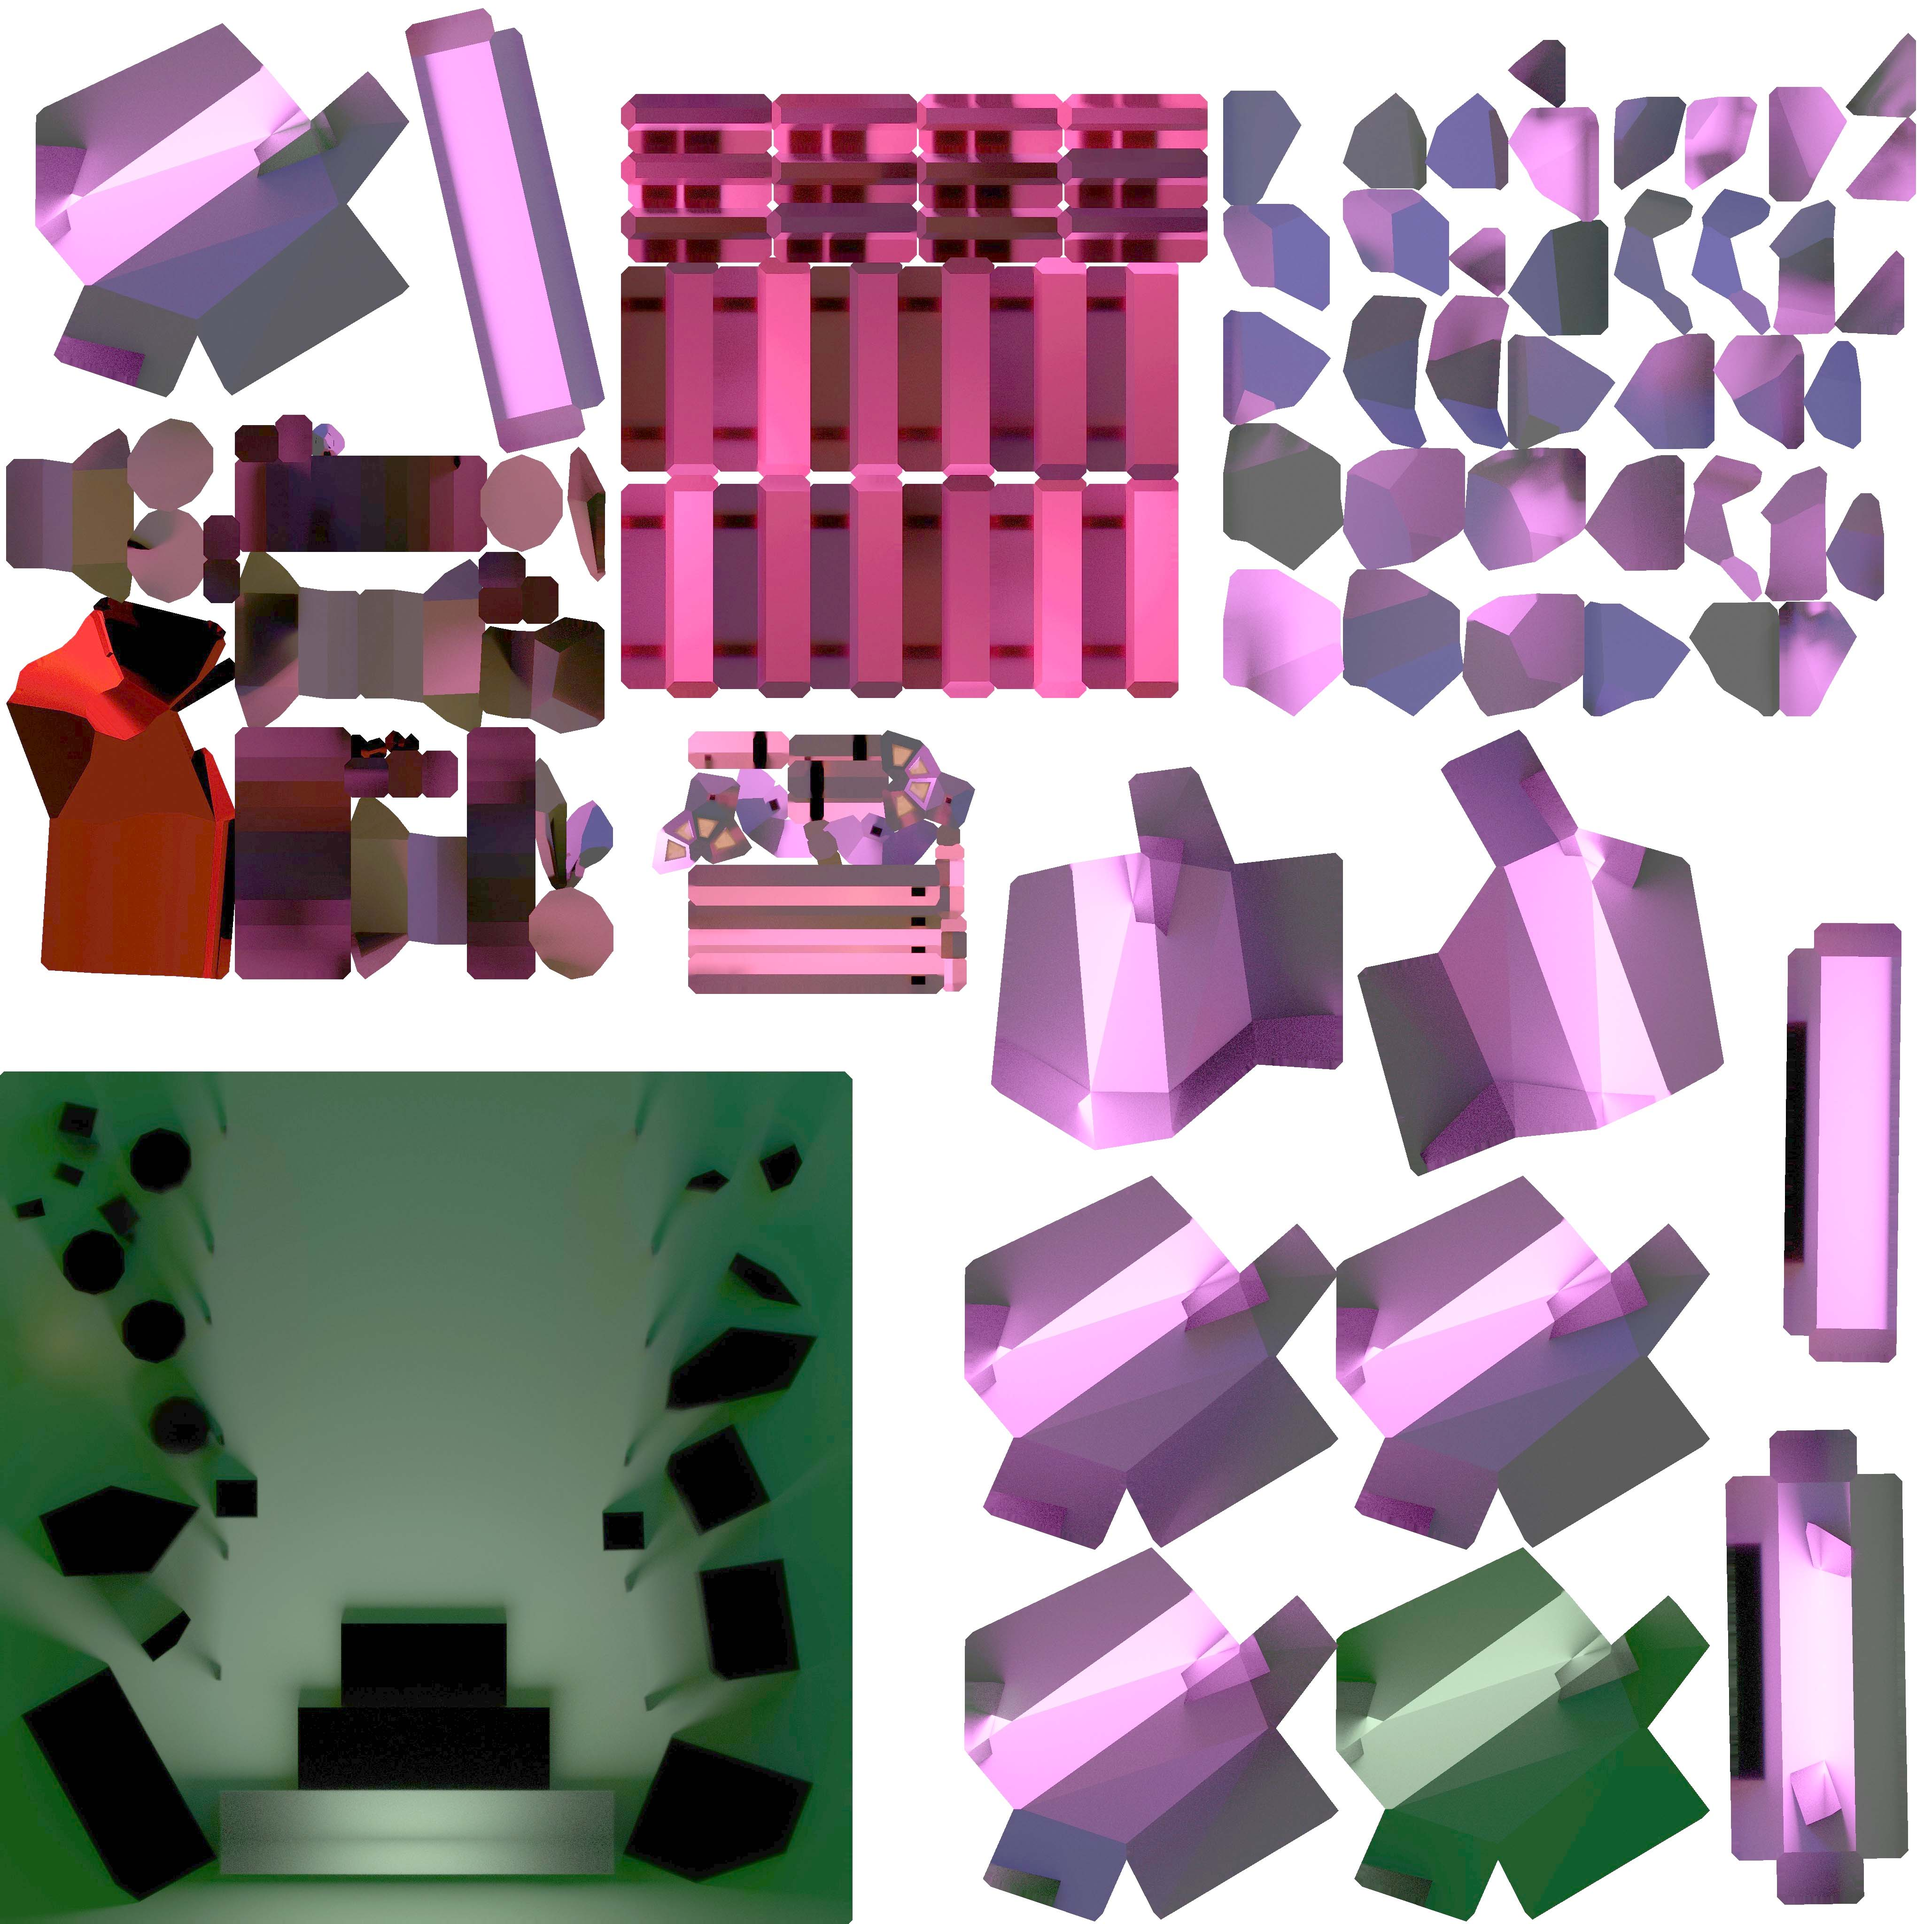
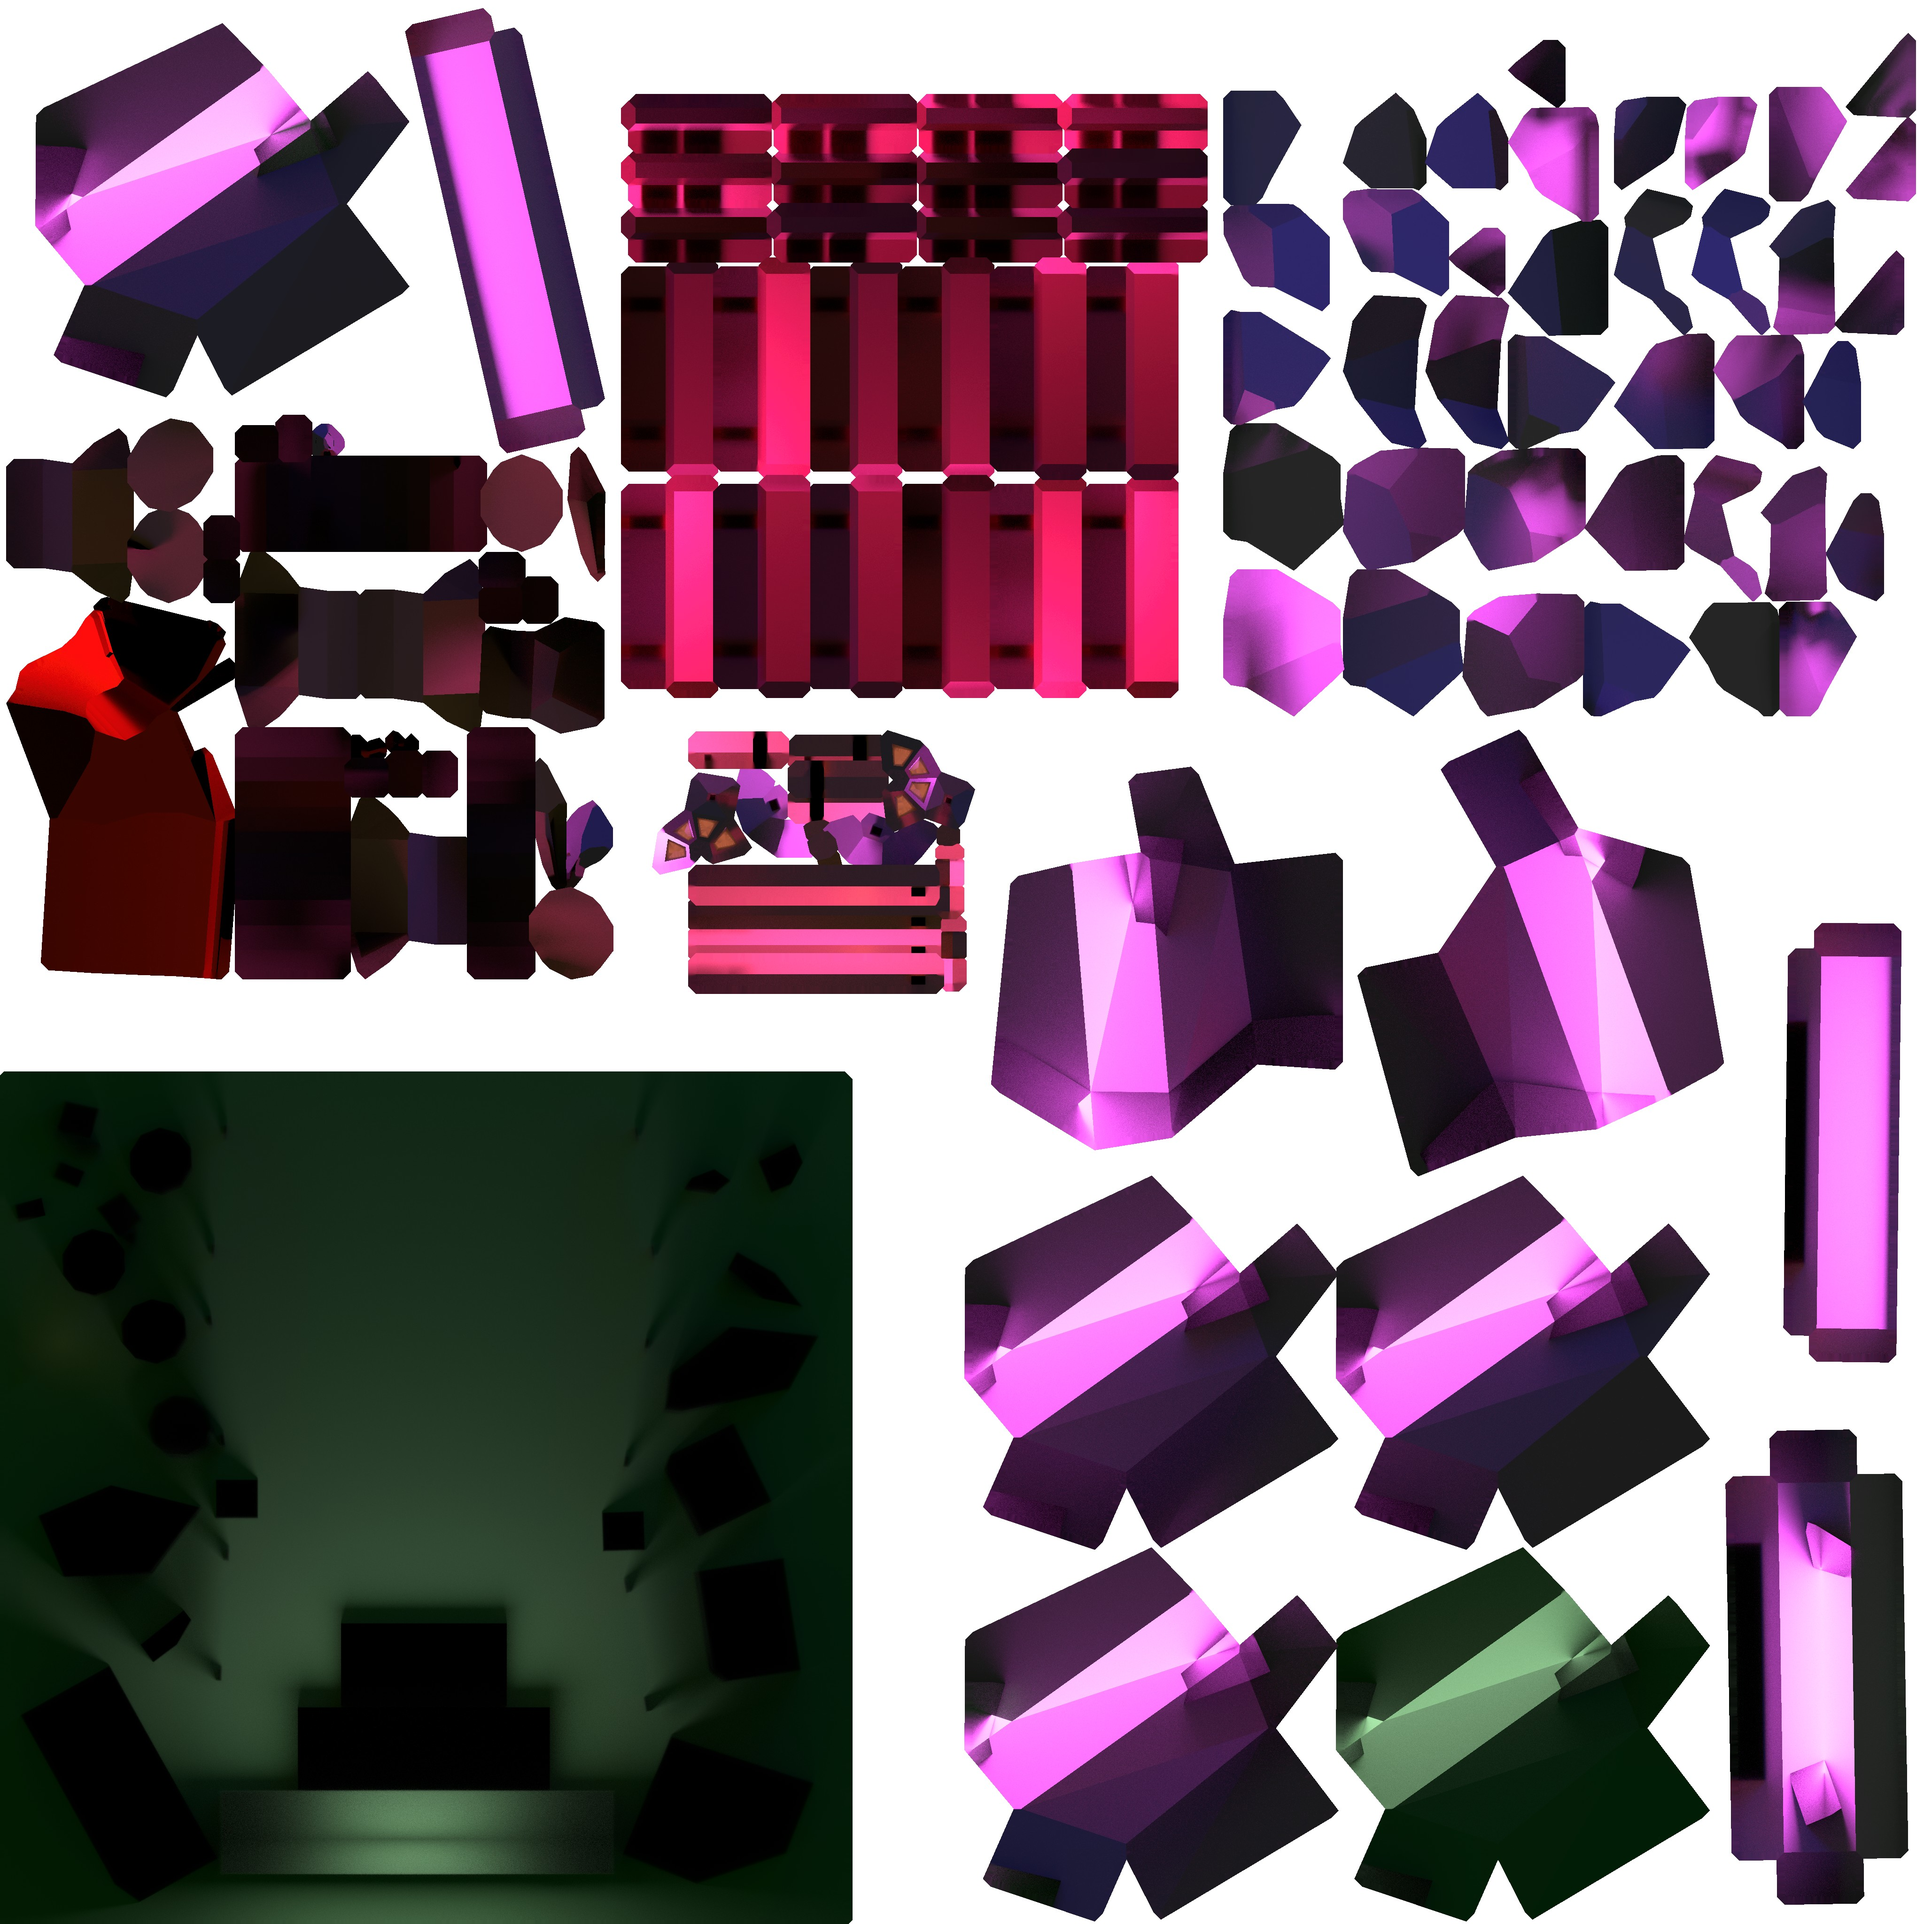
GettingThereAgain
Bis dahin ging's gestern no. Also auf ein neues, für den Schluss!

diff --git a/35_Importing&OptimizingScene/Exercise/src/script.js b/35_Importing&OptimizingScene/Exercise/src/script.js
@@ -34,23 +34,46 @@ const gltfLoader = new GLTFLoader()
 gltfLoader.setDRACOLoader(dracoLoader)
 
 /**
- * Object
+ * Textures
  */
-const cube = new THREE.Mesh(
-    new THREE.BoxGeometry(1, 1, 1),
-    new THREE.MeshBasicMaterial()
-)
+const bakedTexture = textureLoader.load('myBaked.jpg')
+bakedTexture.flipY = false
+bakedTexture.encoding = THREE.sRGBEncoding
 
-scene.add(cube)
+/**
+ * Material
+ */
+// Baked material
+const bakedMaterial = new THREE.MeshBasicMaterial({ map: bakedTexture })
+
+// LampLight Material
+const lampLightMaterial = new THREE.MeshBasicMaterial({ color: 0x3E1C0F })
+
+// Disco Material
+const discoMaterial = new THREE.MeshBasicMaterial({ color: 0xFA5BFF})
 
 /**
  * Model
  */
 gltfLoader.load(
     'myportal.glb',
-    () =>
+    (gltf) =>
     {
-        console.log('loaded')
+        gltf.scene.traverse((child) =>
+        {
+            child.material = bakedMaterial
+        })
+
+        const discoMesh = gltf.scene.children.find(child => child.name === 'Disco')
+        const lampLightMesh = gltf.scene.children.find(child => child.name === 'LampLight')
+        const lampLight2Mesh = gltf.scene.children.find(child => child.name === 'LampLight2')
+
+        discoMesh.material = discoMaterial
+        lampLightMesh.material = lampLightMaterial
+        lampLight2Mesh.material = lampLightMaterial
+
+        scene.add(gltf.scene)
+        
     }
 )
 
@@ -100,6 +123,8 @@ const renderer = new THREE.WebGLRenderer({
 })
 renderer.setSize(sizes.width, sizes.height)
 renderer.setPixelRatio(Math.min(window.devicePixelRatio, 2))
+
+renderer.outputEncoding = THREE.sRGBEncoding
 
 /**
  * Animate
